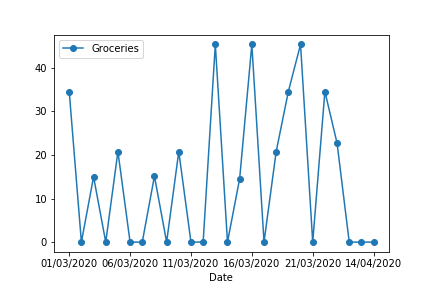
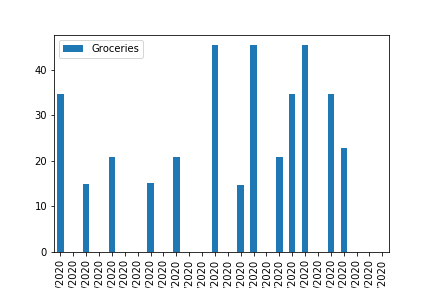
Added analysis for each column

Changed region(s): [[0.0602, 0.125, 0.9329, 1.0], [0.1204, 0.1562, 0.2106, 0.1875], [0.0602, 0.2188, 0.1204, 0.25]]

diff --git a/Statistical_Analysis.py b/Statistical_Analysis.py
@@ -38,7 +38,7 @@ plot = df.plot('Date', 'Total', kind = 'bar')
 fig = plot.get_figure()
 fig.savefig("figures/TotalSpendingByDate.png")
 
-plot = df.plot('Date', 'Groceries', kind = 'line', marker = 'o')
+plot = df.plot('Date', 'Groceries', kind = 'bar')
 fig = plot.get_figure()
 fig.savefig("figures/GroceriesSpending.png")
 
@@ -64,28 +64,37 @@ fig = plot.get_figure()
 fig.savefig("figures/Other.png")
 
  # only works without total df.plot('Date', kind='bar', stacked= True)
+Total = df['Total']
 
-#To get information from dataframe
-sum = df['Total'].sum()
-mean = df['Total'].mean()
-median = df['Total'].median()
-cumulativeMax = df.cummax()
-maximum= df['Total'].max()
-minimum = df['Total'].min()
-standardDev = df.std()
+def goThru():
+    a = list(df)
+    totals = 0
+    for totals in a[1:9]:
+        getInfo(totals)
 
+
+def getInfo(colName):
+    #To get information from dataframe
+    sum = df[colName].sum()
+    mean = df[colName].mean()
+    median = df[colName].median()
+    maximum= df[colName].max()
+    sum = round(sum, 2)
+    mean = round(mean, 2)
+    median = round(median, 2)
+    print("Total amount spent in the period on "  + colName+ ": $" + str(sum))
+    print("Average amount spent per day on "  + colName+ ": $" + str(mean))
+    print("Most spent in a single day on "  + colName+ ": $"+ str(maximum))   
+goThru()
 
 # In[4]:
-
-###Concatenate all this into a string then push into a file which can then 
-## be read from the original application
-def printStats():
-    print("Total amount spent in the period: ")
-    print(sum)
-    print("Average amount spent per day: ")
-    print(mean)
-    print("Most spent in a single day: ")
+def printOnce():
     aa = df.max()
+    maximum= df['Total'].max()
+    minimum = df['Total'].min()
+    cumulativeMax = df.cummax()
+    standardDev = df['Total'].std(axis = 0)
+    standardDev = round(standardDev, 2)
     mostSpentInADay = aa['Date']
     print(str(maximum) + " on " + str(mostSpentInADay))
     #aa = df[' Total '].min()
@@ -94,10 +103,16 @@ def printStats():
     print("Least spent in a single day: ")
     print(str(minimum) + " on " + str(leastInADay))
     print("Total amount of days with no expenses: ")
+    print("Standard deviation of total spending = " + str(standardDev))
+  
+    
+printOnce()    
+###Concatenate all this into a string then push into a file which can then 
+## be read from the original application
 
 
 # In[5]:
-printStats()
+#
 
 # In[6]:
 
